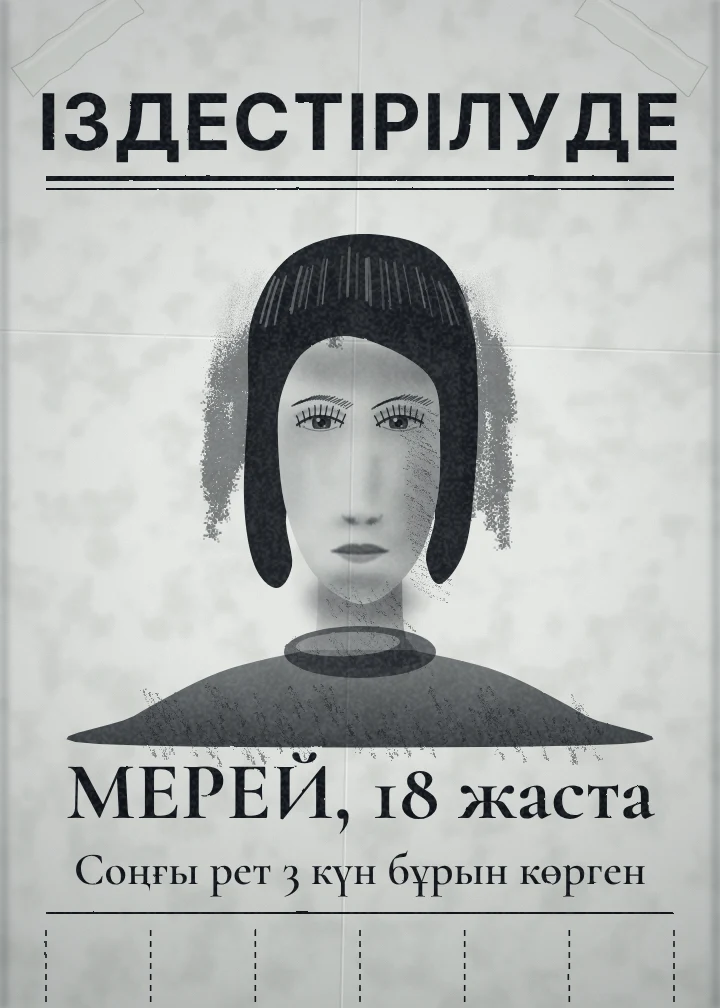
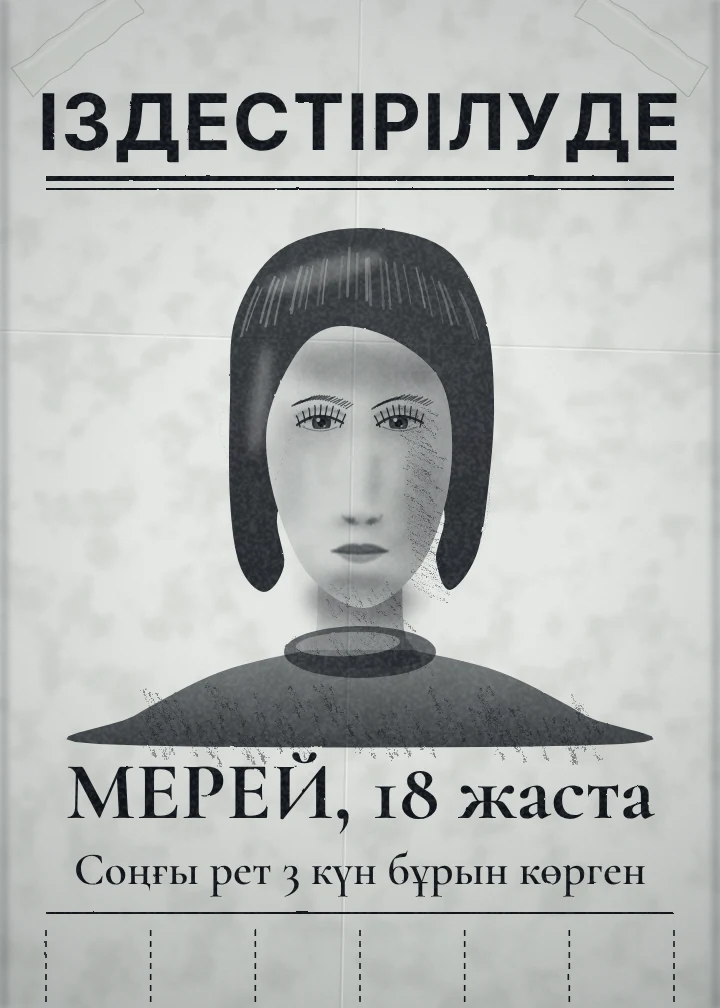
manhwa-rain: WIP checkpoint — poster portrait, p6-10 in progress
Claude-Session: https://claude.ai/code/session_01PAHJ46FEohPiSpAuFhewbD

Changed region(s): [[0.275, 0.2153, 0.7333, 0.5843], [0.4583, 0.5843, 0.55, 0.6151]]

diff --git a/manhwa-rain/paint/scenes/eyes.js b/manhwa-rain/paint/scenes/eyes.js
@@ -110,9 +110,10 @@
     c.save(); aperture(c, g); c.clip();
     // --- sclera: grey-pink falloff from the iris to the corners, never pure white
     c.fillStyle = s.sclera[1]; c.fillRect(g.cx - a * 1.3, g.cy - a, a * 2.6, a * 2);
-    let rg = c.createRadialGradient(ic[0], ic[1], R * .9, ic[0], ic[1], a * 1.15); rg.addColorStop(0, s.sclera[0]); rg.addColorStop(.55, s.sclera[1]); rg.addColorStop(1, s.sclera[2]); c.fillStyle = rg; c.fillRect(g.cx - a * 1.3, g.cy - a, a * 2.6, a * 2);
+    let rg = c.createRadialGradient(ic[0], ic[1], R * .9, ic[0], ic[1], a * 1.15); rg.addColorStop(0, s.sclera[0]); rg.addColorStop(.38, s.sclera[1]); rg.addColorStop(.8, s.sclera[2]); rg.addColorStop(1, L.shade(s.sclera[2], -.25)); c.fillStyle = rg; c.fillRect(g.cx - a * 1.3, g.cy - a, a * 2.6, a * 2);
+    c.save(); const tg = c.createLinearGradient(0, g.cy - a * .5, 0, g.cy + a * .35); tg.addColorStop(0, 'rgba(25,12,16,.5)'); tg.addColorStop(.5, 'rgba(25,12,16,.12)'); tg.addColorStop(1, 'rgba(25,12,16,.2)'); c.fillStyle = tg; c.fillRect(g.cx - a * 1.3, g.cy - a, a * 2.6, a * 2); c.restore();
     // inner corner: caruncle pink glow
-    const inn = g.P(-.93, .02); rg = c.createRadialGradient(inn[0], inn[1], 0, inn[0], inn[1], a * .26); rg.addColorStop(0, L.rgba('#c47468', .85)); rg.addColorStop(.6, L.rgba('#b9776f', .4)); rg.addColorStop(1, L.rgba('#b9776f', 0)); c.fillStyle = rg; c.fillRect(inn[0] - a * .3, inn[1] - a * .3, a * .6, a * .6);
+    const inn = g.P(-.93, .02); rg = c.createRadialGradient(inn[0], inn[1], 0, inn[0], inn[1], a * .26); rg.addColorStop(0, L.rgba('#b86a60', .6)); rg.addColorStop(.6, L.rgba('#a8665f', .25)); rg.addColorStop(1, L.rgba('#b9776f', 0)); c.fillStyle = rg; c.fillRect(inn[0] - a * .3, inn[1] - a * .3, a * .6, a * .6);
     // fine capillaries
     c.lineCap = 'round'; for (let i = 0; i < 9; i++) { const side = i < 5 ? -1 : 1; const st = g.P(side * (.88 + r() * .1), (r() - .3) * .2); const en = g.P(side * (.5 + r() * .15), (r() - .5) * .3); c.strokeStyle = L.rgba('#a8423f', .08 + r() * .1 * s.veins); c.lineWidth = .7 + r() * .6; c.beginPath(); c.moveTo(st[0], st[1]); c.quadraticCurveTo((st[0] + en[0]) / 2 + (r() - .5) * 18, (st[1] + en[1]) / 2 + (r() - .5) * 18, en[0], en[1]); c.stroke(); }
     // --- iris
@@ -159,8 +160,8 @@
     // wet tear line along the lower margin (inside the aperture) + inner-corner highlight
     c.save(); aperture(c, g); c.clip();
     c.lineCap = 'round';
-    blurDo(c, 1.2, (t) => { t.strokeStyle = L.rgba(s.wet, .55 + .2 * s.tear); t.lineWidth = a * .02 * (1 + 1.4 * s.tear); path(t, off(g.lo.slice(3, 68), a * .018 * (1 + s.tear))); t.stroke(); }, 'screen', 1);
-    c.strokeStyle = L.rgba('#fff', .5); c.lineWidth = Math.max(1, a * .006); path(c, off(g.lo.slice(10, 62), a * .026 * (1 + s.tear))); c.stroke();
+    blurDo(c, 1.2, (t) => { t.strokeStyle = L.rgba(s.wet, .36 + .3 * s.tear); t.lineWidth = a * .014 * (1 + 1.6 * s.tear); path(t, off(g.lo.slice(3, 68), a * .018 * (1 + s.tear))); t.stroke(); }, 'screen', 1);
+    c.strokeStyle = L.rgba('#fff', .28 + .3 * s.tear); c.lineWidth = Math.max(1, a * .004); path(c, off(g.lo.slice(10, 62), a * .026 * (1 + s.tear))); c.stroke();
     c.restore();
     // --- catchlights (corneal reflection; clipped to the iris disc + a bit)
     c.save(); aperture(c, g); c.clip(); c.beginPath(); c.arc(ic[0], ic[1], R * 1.02, 0, TAU); c.clip();
@@ -201,6 +202,8 @@
     const lin = off(upSeg, (u) => a * lash.liner * .42 * (.2 + .8 * Math.pow(sin(PI * Math.pow(u, .85)), .8)));
     c.fillStyle = L.rgba(lash.color, .9); taper(c, lin, (u) => a * lash.liner * .8 * (.15 + .85 * Math.pow(sin(PI * Math.pow(u, .85)), .8)));
     c.restore();
+    // smoky dark base along the lash line on the lid skin (natural lash density shadow)
+    blurDo(c, a * .018, (t) => { t.strokeStyle = L.rgba('#120708', .6); t.lineCap = 'round'; t.lineWidth = a * .035; path(t, off(upSeg, a * .02)); t.stroke(); }, 'multiply', 1);
     // lashes: clumps
     const nClump = lash.clumps, lashes = [];
     for (let i = 0; i < nClump; i++) {
@@ -299,19 +302,19 @@
 
   /* ---------------- styles ---------------- */
   const MEREY = {
-    skin: { lit: '#c59a85', mid: '#a47b69', shade: '#664844', rose: '#b86f66', cool: '#6d6a8a' }, lx: -1, depth: 1, trough: '#5a4660',
-    sclera: ['#d3c9c6', '#c1b3b1', '#7d6672'], veins: 1, wet: '#ffe6e0', tear: 0, rim: '#b8d4e8',
+    skin: { lit: '#dcad94', mid: '#b98a72', shade: '#6f4a45', rose: '#c6786c', cool: '#76729a' }, lx: -1, depth: 1, trough: '#5a4660',
+    sclera: ['#cfc4c0', '#b4a5a5', '#6d5663'], veins: 1, wet: '#ffe6e0', tear: 0, rim: '#b8d4e8',
     iris: { inner: '#a8662c', mid: '#6b3a1b', outer: '#2c170c', rim: '#0b0605' }, pupil: .38, strokes: 780, caustic: '#ffb468', causticA: 1, catch: 'window', catchSide: -1,
-    lash: { color: '#0e0809', color2: '#1d1210', liner: .034, clumps: 17, len: .2, w: 1.15, lower: 16, lowerLen: .075 },
-    brow: { color: '#1e1412', n: 380, thick: .11, dx: 0, dy: 0, arch: -.02, drop: .05 },
+    lash: { color: '#0e0809', color2: '#1d1210', liner: .05, clumps: 26, len: .24, w: 1.7, lower: 22, lowerLen: .085 },
+    brow: { color: '#1e1412', n: 460, thick: .11, dx: 0, dy: .09, arch: -.02, drop: .05 },
     dropTint: '#c4d8ea', dropGlint: '#ffd9a0'
   };
   const SANZHAR = {
-    skin: { lit: '#8d8186', mid: '#5c5662', shade: '#262a3a', rose: '#6c5560', cool: '#2f4066' }, lx: 1, depth: 1.25, trough: '#242a45',
-    sclera: ['#b4b0b2', '#9a9499', '#565262'], veins: .7, wet: '#d7e6ff', tear: 0, rim: '#cfe2ff',
+    skin: { lit: '#94858a', mid: '#665862', shade: '#262a3a', rose: '#7a5560', cool: '#38476a' }, lx: 1, depth: 1.25, trough: '#242a45',
+    sclera: ['#a9a5aa', '#8d8791', '#4a4658'], veins: .7, wet: '#d7e6ff', tear: 0, rim: '#cfe2ff',
     iris: { inner: '#3b6cb8', mid: '#17407f', outer: '#0a1a3f', rim: '#040813' }, pupil: .36, strokes: 840, caustic: '#6fa0ff', causticA: .9, catch: 'headlight', catchSide: 1,
-    lash: { color: '#0a0a0e', color2: '#16161c', liner: .03, clumps: 15, len: .15, w: 1.15, lower: 12, lowerLen: .06 },
-    brow: { color: '#14141a', n: 420, thick: .115, dx: 0, dy: .02, arch: .005, drop: .05 },
+    lash: { color: '#0a0a0e', color2: '#16161c', liner: .045, clumps: 24, len: .17, w: 1.7, lower: 16, lowerLen: .065 },
+    brow: { color: '#14141a', n: 520, thick: .125, dx: 0, dy: .1, arch: .005, drop: .05 },
     dropTint: '#bcd2e6', dropGlint: '#cfe2ff'
   };
   E.styles = { MEREY, SANZHAR };
@@ -320,7 +323,7 @@
   function mereyEye(k, open) {
     const c = L.layer(), seed = 6100, s = MEREY;
     E.skin(c, s, seed);
-    const g = E.make({ cx: 600, cy: 425, a: 300, tilt: .07, mirror: 1, open, Hu: .43, Hl: .32, R: .40 });
+    const g = E.make({ cx: 600, cy: 440, a: 335, tilt: .07, mirror: 1, open, Hu: .43, Hl: .32, R: .40 });
     E.socket(c, g, s, seed);
     E.pores(c, s, seed);
     E.ball(c, g, s, seed);
@@ -343,7 +346,7 @@
   P.register('eye_sanzhar', { w: 1200, h: 700, alpha: false, seed: 6200 }, async (k) => {
     const c = L.layer(), seed = 6200, s = SANZHAR;
     E.skin(c, s, seed);
-    const g = E.make({ cx: 600, cy: 410, a: 300, tilt: .03, mirror: -1, open: 1, Hu: .36, Hl: .27, R: .36, ci: [0, -.03], cornerIn: .05, cornerOut: -.025, lidClosed: .1 });
+    const g = E.make({ cx: 600, cy: 425, a: 335, tilt: .03, mirror: -1, open: 1, Hu: .36, Hl: .27, R: .36, ci: [0, -.03], cornerIn: .05, cornerOut: -.025, lidClosed: .1 });
     E.socket(c, g, s, seed);
     E.pores(c, s, seed);
     E.ball(c, g, s, seed);

diff --git a/manhwa-rain/paint/scenes/p05_poster.js b/manhwa-rain/paint/scenes/p05_poster.js
@@ -80,11 +80,11 @@
     ink.fillStyle = K + '.62)'; ink.beginPath(); ink.ellipse(cx, 652, 76, 26, 0, 0, 6.2832); ink.fill(); ink.globalCompositeOperation = 'destination-out'; ink.fillStyle = 'rgba(0,0,0,.34)'; ink.beginPath(); ink.ellipse(cx - 12, 644, 52, 12, -.05, 0, 6.2832); ink.fill(); ink.globalCompositeOperation = 'source-over';
     ink.restore();
     // --- hair mass, then carve the face ---
-    ink.save(); ink.fillStyle = K + '.93)';
-    const hair = sm([[cx - 112, 400], [cx - 108, 318], [cx - 70, 256], [cx, 234], [cx + 74, 252], [cx + 110, 314], [cx + 118, 400], [cx + 114, 490], [cx + 104, 552], [cx + 80, 584], [cx + 66, 560], [cx + 66, 500], [cx - 64, 500], [cx - 68, 566], [cx - 84, 588], [cx - 106, 564], [cx - 116, 500]], true);
+    ink.save(); { const hg = ink.createLinearGradient(0, 230, 0, 590); hg.addColorStop(0, K + '.8)'); hg.addColorStop(1, K + '.9)'); ink.fillStyle = hg; }
+    const hair = sm([[cx - 130, 400], [cx - 124, 316], [cx - 80, 250], [cx, 228], [cx + 84, 248], [cx + 124, 314], [cx + 134, 400], [cx + 128, 490], [cx + 116, 556], [cx + 90, 590], [cx + 76, 560], [cx + 74, 500], [cx - 72, 500], [cx - 76, 566], [cx - 96, 592], [cx - 120, 566], [cx - 130, 500]], true);
     path(ink, hair); ink.fill();
     ink.globalCompositeOperation = 'destination-out'; ink.fillStyle = '#000';
-    const face = sm([[cx - 78, 392], [cx - 56, 352], [cx - 16, 336], [cx + 36, 352], [cx + 74, 384], [cx + 80, 440], [cx + 76, 506], [cx + 52, 568], [cx + 4, 604], [cx - 46, 574], [cx - 74, 510], [cx - 82, 440]], true); path(ink, face); ink.fill();
+    const face = sm([[cx - 82, 388], [cx - 52, 340], [cx - 14, 326], [cx + 38, 342], [cx + 80, 380], [cx + 92, 440], [cx + 84, 508], [cx + 56, 572], [cx + 4, 608], [cx - 50, 576], [cx - 82, 510], [cx - 94, 440]], true); path(ink, face); ink.fill();
     ink.globalCompositeOperation = 'source-over'; ink.restore();
     // --- skin tone and sculpting ---
     ink.save(); path(ink, face); ink.clip();
@@ -126,10 +126,13 @@
     soft(5, () => blob(cx, 580, 28, 7, .22));
     ink.restore();
     // --- brush: charcoal strand flow in the hair, highlight band (erase), graphite hatching on face/neck/jumper ---
-    L.paint(ink, (b, rnd) => {
-      b.set('charcoal', '#000', 1.0);
-      for (let i = 0; i < 130; i++) { const side = rnd() < .5 ? -1 : 1, x0 = cx + side * (rnd() * 120 + 8), y0 = 236 + Math.abs(x0 - cx) * .28 + rnd() * 30; const ln = Math.abs(x0 - cx) < 88 ? 40 + rnd() * 50 : 60 + rnd() * 200, bend = (x0 - cx) * .14; b.spline([[x0, y0, .4], [x0 + bend, y0 + ln * .5, 1], [x0 + bend * 1.2 + side * rnd() * 6, Math.min(Math.abs(x0 - cx) < 88 ? 350 : 590, y0 + ln), .3]], .6); }
-    }, { seed: 562, mode: 'mask', color: INK, alpha: .5, gain: 1.7 });
+    const PX0 = cx - 34, PY0 = 300; // side part
+    const strand = (b, rnd, side) => { const t = rnd(); const sx = PX0 + (rnd() - .5) * 16 + (side > 0 ? 14 : -14), sy = PY0 + (rnd() - .5) * 10; const tipx = cx + side * (96 + rnd() * 26) * (side < 0 ? 1.0 : 1.0), tipy = 540 + rnd() * 50;
+      const mx = cx + side * (60 + t * 70), my = 350 + rnd() * 60; b.spline([[sx, sy, .3], [(sx + mx) / 2 + side * 14, (sy + my) / 2 - 8, .8], [mx + side * (t * 18), my + 60, 1], [tipx + side * 6, tipy - 40, .7], [tipx - side * (8 + rnd() * 10), tipy, .2]], .7); };
+    L.paint(ink, (b, rnd) => { b.set('charcoal', '#000', 1.0); for (let i = 0; i < 230; i++) strand(b, rnd, rnd() < .46 ? -1 : 1); }, { seed: 562, mode: 'mask', color: INK, alpha: .95, gain: 2.4, atop: true });
+    L.paint(ink, (b, rnd) => { b.set('2B', '#000', .5); for (let i = 0; i < 12; i++) strand(b, rnd, rnd() < .5 ? -1 : 1); }, { seed: 566, mode: 'mask', color: INK, alpha: .35, gain: 1.6 }); // loose strands
+    L.paint(ink, (b, rnd) => { b.set('HB', '#000', .5); for (let i = 0; i < 70; i++) strand(b, rnd, rnd() < .46 ? -1 : 1); }, { seed: 567, mode: 'mask', color: '#000', alpha: .0, gain: 0 });
+    ink.save(); ink.globalCompositeOperation = 'destination-out'; ink.filter = `blur(${5 * q}px)`; ink.fillStyle = 'rgba(0,0,0,.3)'; ink.beginPath(); ink.ellipse(cx - 36, 272, 62, 12, -.28, 0, 6.2832); ink.fill(); ink.beginPath(); ink.ellipse(cx - 100, 400, 9, 56, .12, 0, 6.2832); ink.fill(); ink.restore();
     ink.save(); ink.globalCompositeOperation = 'destination-out'; ink.lineCap = 'round';
     for (let i = 0; i < 26; i++) { const t = i / 25, x0 = cx - 104 + t * 208 + (r() - .5) * 8, y0 = 262 + Math.sin(t * 3.14) * -10 + Math.abs(t - .45) * 56 + (r() - .5) * 10; ink.strokeStyle = `rgba(0,0,0,${.14 + r() * .2})`; ink.lineWidth = 1 + r() * 2; ink.beginPath(); ink.moveTo(x0, y0); ink.quadraticCurveTo(x0 + (t - .5) * 20, y0 + 20, x0 + (t - .5) * 34, y0 + 38 + r() * 12); ink.stroke(); }
     ink.restore();

diff --git a/manhwa-rain/paint/scenes/p09_eyes.js b/manhwa-rain/paint/scenes/p09_eyes.js
@@ -1,0 +1,42 @@
+/* Page 9 — pair_0..3: both of Merey's eyes (1600x560). Same face every frame; pupils contract 0->3; frame 3 has tears. Uses window.EYE (eyes.js). */
+(function () {
+  const P = PAINT, L = P.lib, PAL = L.PAL;
+  const W0 = 1600, H0 = 560;
+  const CITY = [
+    { x: -.42, y: -.40, r: .12, c: '#ffd98a', a: .95 }, { x: .30, y: -.34, r: .085, c: '#9fe8de', a: .9 }, { x: -.08, y: -.58, r: .06, c: '#ffffff', a: .9 },
+    { x: .48, y: .05, r: .05, c: '#F2C230', a: .8 }, { x: -.52, y: .12, r: .07, c: '#bcd4ff', a: .75 }, { x: .08, y: .46, r: .045, c: '#ffe9b0', a: .7 }, { x: -.3, y: .38, r: .035, c: '#8fd8ff', a: .6 }
+  ];
+  const PUPIL = [.64, .52, .41, .30];
+
+  function frame(k, i) {
+    const E = window.EYE, c = L.layer(), seed = 6300;
+    const s = Object.assign({}, E.styles.MEREY, { catch: 'city', cityLights: CITY, pupil: PUPIL[i], depth: 1.1, veins: i === 3 ? 2.2 : 1, tear: i === 3 ? 1 : (i === 2 ? .15 : 0), catchSide: -1 });
+    s.skin = { lit: '#d6a78f', mid: '#b3846e', shade: '#6a4743', rose: '#c6786c', cool: '#76729a' };
+    E.skin(c, s, seed);
+    // nose bridge: lit ridge between the eyes, soft shadow plates on both sides
+    c.save(); c.globalCompositeOperation = 'screen'; let g = c.createLinearGradient(700, 0, 900, 0); g.addColorStop(0, 'rgba(230,190,160,0)'); g.addColorStop(.5, 'rgba(236,196,168,.32)'); g.addColorStop(1, 'rgba(230,190,160,0)'); c.fillStyle = g; c.fillRect(700, 0, 200, 560); c.restore();
+    c.save(); g = c.createLinearGradient(560, 0, 700, 0); g.addColorStop(0, 'rgba(60,36,36,.0)'); g.addColorStop(1, 'rgba(60,36,36,.3)'); c.fillStyle = g; c.fillRect(560, 0, 140, 560); g = c.createLinearGradient(900, 0, 1040, 0); g.addColorStop(0, 'rgba(60,36,36,.3)'); g.addColorStop(1, 'rgba(60,36,36,0)'); c.fillStyle = g; c.fillRect(900, 0, 140, 560); c.restore();
+    const gL = E.make({ cx: 392, cy: 318, a: 225, tilt: .06, mirror: -1, open: i === 3 ? .9 : 1, Hu: .43, Hl: .32, R: .40 });
+    const gR = E.make({ cx: 1208, cy: 318, a: 225, tilt: .06, mirror: 1, open: i === 3 ? .9 : 1, Hu: .43, Hl: .32, R: .40 });
+    [[gL, seed + 1], [gR, seed + 2]].forEach(([g, sd]) => E.socket(c, g, s, sd));
+    E.pores(c, s, seed);
+    [[gL, seed + 1], [gR, seed + 2]].forEach(([g, sd]) => { E.ball(c, g, s, 6300); E.lids(c, g, s, sd); });
+    // red, wet rims in the last frames
+    if (i >= 2) [gL, gR].forEach(g => { c.save(); c.filter = `blur(${3 * c.q}px)`; c.globalCompositeOperation = 'multiply'; c.strokeStyle = L.rgba('#c0555a', i === 3 ? .5 : .25); c.lineWidth = 10; c.lineCap = 'round'; c.beginPath(); g.lo.slice(3, 68).forEach((p, j) => j ? c.lineTo(p[0], p[1]) : c.moveTo(p[0], p[1])); c.stroke(); c.restore(); });
+    [[gL, seed + 1], [gR, seed + 2]].forEach(([g, sd]) => E.brow(c, g, s, sd));
+    // light: warm window left, cool city right
+    L.glow(c, -60, 260, 560, '#ffcf8a', .22, 'screen'); L.glow(c, 1660, 240, 600, '#7fd0d4', .22, 'screen'); L.glow(c, 800, -80, 520, '#a8c4e8', .1, 'screen');
+    // rain drops on skin (same positions every frame; they creep down a little)
+    E.skinDrops(c, s, seed + 5, 24, [[20, 30, 190, 540], [560, 20, 1040, 120], [610, 150, 990, 540], [1420, 30, 1590, 540], [200, 450, 580, 550], [1020, 450, 1400, 550]], { k: .95 });
+    // a few longer trails of water running down the skin
+    const r = L.rng(seed + 9); c.save(); c.lineCap = 'round';
+    for (let j = 0; j < 9; j++) { const x = 40 + r() * 1520, y = 20 + r() * 140, l = 80 + r() * 230 + i * 14; c.strokeStyle = `rgba(205,222,240,${.05 + r() * .06})`; c.lineWidth = 3 + r() * 5; c.beginPath(); c.moveTo(x, y); c.bezierCurveTo(x + 6, y + l * .4, x - 8, y + l * .7, x + 3, y + l); c.stroke(); }
+    c.restore();
+    if (i === 3) { E.tear(c, gL, s, seed, 190); E.tear(c, gR, s, seed + 3, 120); }
+    // city light reflected on wet skin: soft coloured streaks
+    c.save(); c.globalCompositeOperation = 'screen'; [[140, 90, '#ffd98a'], [1480, 150, '#7fe0d0'], [820, 60, '#bcd4ff']].forEach(([x, y, col]) => { L.glow(c, x, y, 120, col, .12, 'screen'); }); c.restore();
+    E.finish(c, s, seed, .62);
+    return c;
+  }
+  for (let i = 0; i < 4; i++) P.register('pair_' + i, { w: W0, h: H0, alpha: false, seed: 6300 + i }, async (k) => frame(k, i));
+})();
